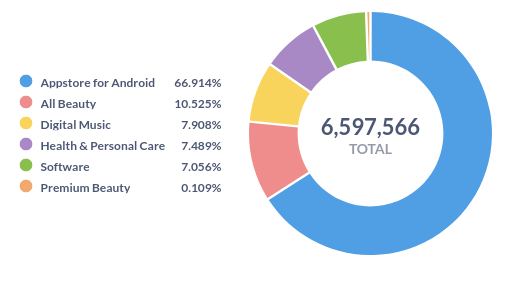
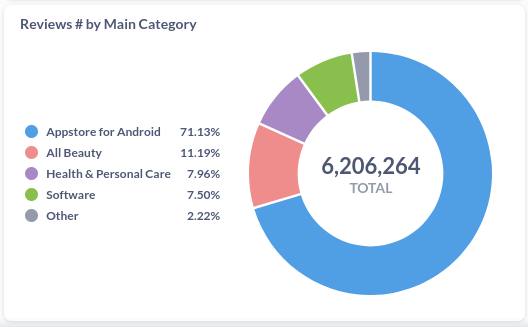
README and screenshots update

diff --git a/README.md b/README.md
@@ -6,25 +6,25 @@ ETL for [Amazon Reviews'23` dataset](https://amazon-reviews-2023.github.io/).
 
 ![Data Engineering project Amazon Reviews](/screenshots/amazon-reviews-data-engineering.png)
 
-Cloud environment: **GitHub CodeSpaces**, free and enough to test (Compute resources - 120 core-hours of Codespaces compute for free monthly, Datastore - 15GB of Codespaces storage for free monthly). 
+Cloud environment: **GitHub CodeSpaces**, free and enough to test (120 core-hours of Codespaces compute for free monthly, 15GB of Codespaces storage for free monthly). 
 
-To reproduce and review this project it would be enough (hopefully) less than hour, and ~2GB total for smaller datasets. You don't need to use anything extra, like VS Code or trial accounts - just webrowser + GitHub account is totally enough.
+To reproduce and review this project it would be enough (hopefully) less than hour, and ~2GB total for described datasets. You don't need to use anything extra, like VS Code or trial accounts - just webrowser + GitHub account is totally enough.
 
-This level of cloud resources allowed me to process and analyze-visualize datasets with at least ~6mln reviews.
+This level of cloud resources allowed me to process and analyze-visualize datasets with at least 6 Mln reviews without issues.
 
 ## 🎯 Goals
 
 This is my Data Engineering project started during [DE ZoomCamp](https://github.com/DataTalksClub/data-engineering-zoomcamp)'24.
 And **the main goal** is straight-forward: **Extract - Transform - Load** data, then **visualize** some insights.  
 
-I chose to analyze [Amazon Reviews](https://amazon-reviews-2023.github.io/) dataset. Full dataset is huge, and it is available to download in parts - by product categories. There are some smaller and larger dataset, some of them we would explore here (Digital_Music, Health_and_Personal_Care, All_Beauty, Software). Each subset includes 2 parts: products (**meta**), ratings and user comments (**reviews**).
+I chose to analyze [Amazon Reviews](https://amazon-reviews-2023.github.io/) dataset. Full dataset is huge, and it is available to download in parts - by product categories. There are some smaller and larger sub-datasets, some of them we would explore here (Digital_Music, Health_and_Personal_Care, All_Beauty, Software). Each subset includes 2 files: products (**meta**), ratings and user comments (**reviews**).
 
-Some time ago I became very interested in how much we can trust all those ratings on Amazon, including 'bestseller' statuses. But without data it was hard to investigate. Now, years later, I have more skills in data analytics and this huge dataset, thanks to [McAuley Lab](https://cseweb.ucsd.edu/~jmcauley/). I chose to use only part of the whole information: 
+Some time ago I became very interested in how much we can trust all those ratings on Amazon, including 'bestseller' statuses. But without proper data it was hard to investigate. Now, years later, I have more skills in data analytics and this huge dataset, thanks to [McAuley Lab](https://cseweb.ucsd.edu/~jmcauley/). I chose to use only part of the whole information: 
 - **Products**: categories and average ratings 
 - **Reviews**: user's ratings, review dates, was that verified purchase or not 
-  (will analyze reviews texts later, the source for many insights I think)
+  (will analyze reviews texts later, awesome source for many insights I think)
 
-Thanks to ZoomCamp for the reason to learn many new tools and get back to those 'reviews & trust' questions!  
+Thanks to ZoomCamp for the reason to learn many new tools and get back to my 'reviews & trust' questions!  
 
 ### 🕵 Questions that I chose to investigate during this project:
 
@@ -40,6 +40,9 @@ Let's explore together! These categories (datasets) I played with so far.
 ## ℹ Assets
 
 - dataset urls are defined in .csv files stored in `/data` directory - `dataset_urls0.csv`, `dataset_urls1.csv`, etc
+- my scripts (bash, python, sql)
+- pre-configured Metabase dashboard
+- pre-configured Mage AI pipelines 
 
 ## :toolbox: Tech stack
 
@@ -47,11 +50,11 @@ Let's explore together! These categories (datasets) I played with so far.
 - [Metabase](https://www.metabase.com/) as an analitics platform - open source and free self-hosted
 - [Mage AI](https://www.mage.ai/) as an orchestration tool - open source and free self-hosted
 
-Combination of CodeSpaces + PostgreSQL + Metabase + Mage AI would be a good choice for those who prefer/experiment with a simple and open source approach, or those who hesitate to deal with The BIG 3 cloud providers (AWS, Azure, GCP) with their serious payments. Looks like a good fit for early stage startups, developers, and those who learn Data Engineering as me (you?).  
+💡 Combination of CodeSpaces + PostgreSQL + Metabase + Mage AI would be a good choice for those who prefer/experiment with a simple and open source approach, or those who hesitate to deal with The BIG 3 cloud providers (AWS, Azure, GCP) with their serious payments. Looks like a good fit for early stage startups, developers, and those who learn Data Engineering as me (you?).  
 
-## 🚀 Instructions to deploy and test
+## 🚀 Instructions to deploy
 
-💡 Oh, so many steps?! Please don't panic, they are all simple enough, that's why so many. One step at a time. I did it, you can do it too! Let's go!
+🙈 Oh, so many steps?! Please don't panic, they are all simple enough, that's why so many. One step at a time. I did it, you can do it too! Let's go!
 
 - [Setup environment](#hammer_and_wrench-setup-environment)
 - [Download dataset and start PostgreSQL server](#arrow_heading_down-download-dataset-and-start-postgresql-server)
@@ -62,7 +65,7 @@ Combination of CodeSpaces + PostgreSQL + Metabase + Mage AI would be a good choi
 
 ### :hammer_and_wrench: Setup environment
 
-1. Fork this repo in GitHub.
+1. Fork this repo on GitHub.
 2. Create GitHub CodeSpace from the repo.
 3. **Start CodeSpace**, wait for `requirements.txt` installation to finish (it starts automatically, just watch & wait).
 4. Copy `dev.env` to `.env` - run `cp dev.env .env` in your CodeSpace terminal. You don't need to change anything to test the process. It contains **all key settings** (PostgreSQL etc).
@@ -72,7 +75,7 @@ cp dev.env .env
 
 ### :arrow_heading_down: Download dataset and start PostgreSQL server
 
-5. Run `bash download.sh` to download 1st dataset (smallest) - from `dataset_urls0.csv`. As a result you will have 2 files in your `data` directory: `meta_Digital_Music.jsonl.gz` and `meta_Digital_Music.jsonl.gz`. Cool!✅
+5. Run `bash download.sh` to download 1st dataset (smallest) - from `dataset_urls0.csv`. As a result you will have 2 files in your `data` directory: `meta_Digital_Music.jsonl.gz` and `meta_Digital_Music.jsonl.gz`. Cool! ✅
 ```bash
 bash download.sh
 ```
@@ -87,7 +90,7 @@ bash start_postgres.sh
 Let it run in this terminal so you can see logs and easily stop it later (with just Ctrl-C). CodeSpace will pop-up the notification that `Your application running on port 5432 is available.` - just ignore it (close that pop-up).
 
 8. Start 2nd terminal (click `+` button on the panel in the right corner above terminal) and switch to it. 
-9. You can check database connection by running `pgcli -h 172.17.0.2 -p 5432 -u postg -d amzn_reviews`, password `postg`. All dockerized apps of this setup are suppose to run in default `bridge` network, `172.17.0.x`, with `172.17.0.2` for PostgreSQL. If this step fails you're in trouble 😅 But, when you run it in a CodeSpace and follow the instruction it should work fine, I tested multiple times. Type `quit` to return to terminal CLI. Ok, PostgreSQL is running.✅
+9. You can check database connection by running `pgcli -h 172.17.0.2 -p 5432 -u postg -d amzn_reviews`, password `postg`. All dockerized apps of this setup are suppose to run in default `bridge` network, `172.17.0.x`, with `172.17.0.2` for PostgreSQL. If this step fails you're in trouble 😅 But, when you run it in a CodeSpace and follow the instruction it should work fine, I tested multiple times. Type `quit` to return to terminal CLI. Ok, PostgreSQL is running. ✅
 ```bash
 pgcli -h 172.17.0.2 -p 5432 -u postg -d amzn_reviews
 ```
@@ -104,7 +107,7 @@ It executes python script `jsonl_postgres.py` with default parameters from your 
 
 ![Processing successful](/screenshots/processing-successful.png)
 
-Congratulations, the first approach to load data accomplished and you have records in 2 tables of your database: `meta` with products, `reviews` with ratings.✅ 
+Congratulations, the first approach to load data accomplished and you have records in 2 tables of your database: `meta` with products, `reviews` with ratings. ✅ 
 
 11. Now you can ingest the next dataset with the same approach: 
 - download 2nd dataset: run `bash download.sh dataset_urls1.csv` (Health_and_Personal_Care files)
@@ -138,7 +141,7 @@ It will automatically download Metabase container and start it.
 
 ![Metabase app pop-up](/screenshots/metabase-app-pop-up.png)
 
-New page would probably open white. Please wait a couple of seconds to let it start, then refresh the page. Now you will see login screen. Just login with `john@mailinator.com`, pass: `Jj123456` (no worries, it's self-hosted, all safe). Your visualizations are already there for you!✅
+New page would probably open white. Please wait a couple of seconds to let it start, then refresh the page. Now you will see login screen. Just login with `john@mailinator.com`, pass: `Jj123456` (no worries, it's self-hosted, all safe). Your visualizations are already there for you! ✅🎉
 
 💡 In case you accidentally close that pop-up or Metabase page and you need it later (after ingesting new datasets), you can always open that page from `Ports` tab:
 
@@ -152,7 +155,9 @@ New page would probably open white. Please wait a couple of seconds to let it st
 - pie chart with Reviews number by Verified/not purchase
 - Reviews rating number distribution by Verified/not purchase over time (by months)  
 - pie chart with Reviews number by Main category
-- Reviews rating number distribution by Main category over time (by months)  
+- Reviews rating number distribution by Main category over time (by months) 
+
+You can see some [screenshots](/screenshots) below.
 
 17. The more datasets you load, the more categories you can see. That's why I offer you to download and process at least 2 datasets. You can process 3rd dataset by following familiar steps in [Ingest data using CLI (bash & python)](#keyboard-ingest-data-using-cli-bash--python) or go ahead and discover [Mage AI](#mage-orchestrate-data-ingestion-mage-ai).
 
@@ -178,7 +183,7 @@ docker-compose up
 
 ![Open Mage AI page](/screenshots/open-mage-ai-page.png)
 
-That new page would probably open white. Please wait a couple of seconds to let Mage AI start, then refresh the page. Now you will see Mage dashboard. Your orchestration center is ready to serve you!✅
+That new page would probably open white. Please wait a couple of seconds to let Mage AI start, then refresh the page. Now you will see Mage dashboard. Your orchestration center is ready to serve you! ✅
 
 22. Go to `Pipelines` - move mouse to the left edge of the window, it will open menu slider, click on `Pipelines`.
 
@@ -198,11 +203,21 @@ You will see 2 pipelines I configured:
 
 Enter `dataset_urls2.csv` (that you downloaded but not processed yet) and click `Run now` button. Ingestion process started. You can see the progress on `Pipeline runs` page.
 
-25. After ingesting new dataset you can switch to Metabase page, update it and see new data in the dashboard reports. Congratulations!✅
+![Mage AI pipeline run progress](/screenshots/mage-ai-pipeline-runs-running.png)
+
+25. After ingesting new dataset you can switch to Metabase page, update it and see new data in the dashboard reports. Congratulations! ✅🎉
+
+![Metabase dashboard products](/screenshots/metabase-dashboard-products.png)
+
+![Metabase dashboard reviews by verified monthly](/screenshots/reviews-by-verified-purchase-monthly.png)
+
+![Metabase dashboard reviews by category monthly](/screenshots/reviews-by-main-category-monthly.png)
+
+26. If you get to this point, please ⭐star⭐ my repo! 🙌
 
 ## :stop_button: Instructions to stop the apps
 
-- Simple way - stop all together by stopping your CodeSpace. Remember, this will leave all downloaded data in your CodeSpace - you can start it later and continue learning tools.
+- Simple way - stop all together by stopping your CodeSpace. Remember, this will leave all downloaded data in your CodeSpace - you can start it later and continue playing with tools and data.
 - Stop all active Docker containers - run this command in terminal
 ```bash
 docker stop $(docker ps -a -q)
@@ -210,9 +225,11 @@ docker stop $(docker ps -a -q)
 - Stop Mage - switch to 2nd terminal and press `Ctrl-C`
 - Stop PostgreSQL - switch to 1st terminal and press `Ctrl-C`
 
-## Thank you for your time!
+## Support
 
-- If you experience any issue while following this instruction or any unclear steps, please add it to [Issues](https://github.com/dmytrovoytko/data-engineering-amazon-reviews/issues), I'll be glad to help/fix. And your feedback, questions & suggestions are welcome as well!
+🙏 Thank you for your attention and time!
+
+- If you experience any issue while following this instruction (or something left unclear), please add it to [Issues](https://github.com/dmytrovoytko/data-engineering-amazon-reviews/issues), I'll be glad to help/fix. And your feedback, questions & suggestions are welcome as well!
 - Feel free to fork and submit pull requests.
 
 If you find this project helpful, please ⭐star⭐ my repo https://github.com/dmytrovoytko/data-engineering-amazon-reviews to help other people discover it 🙏
